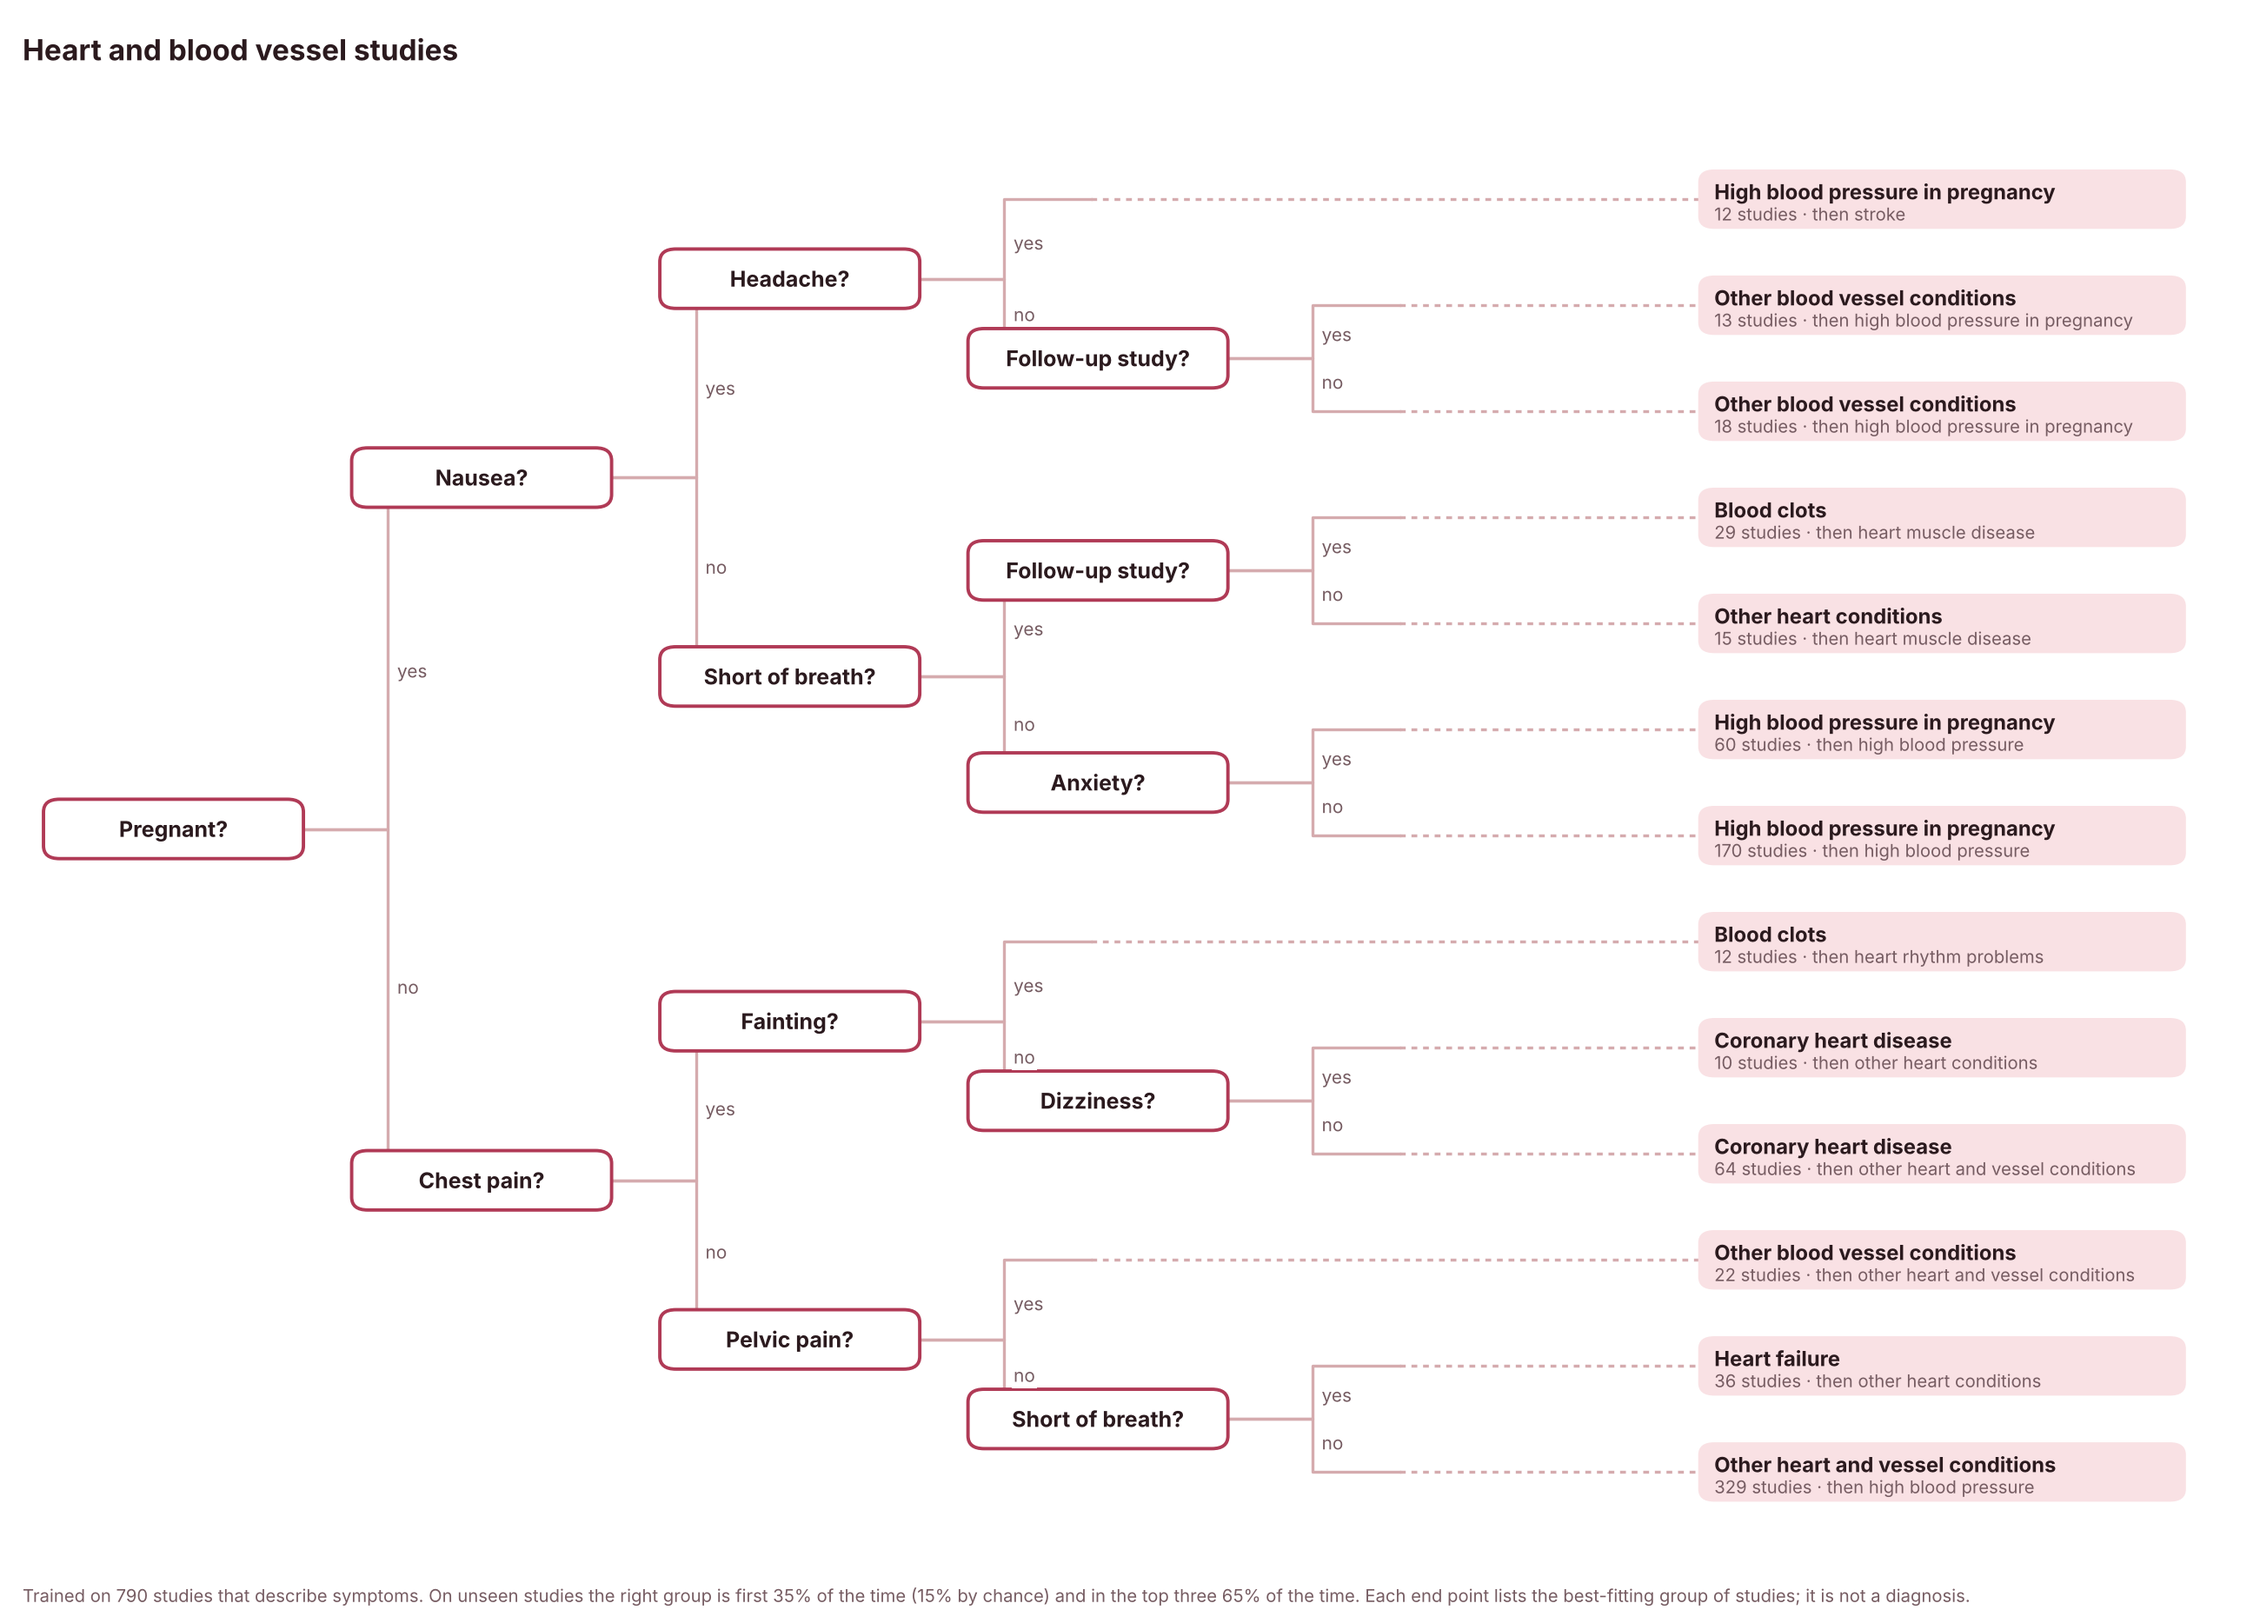
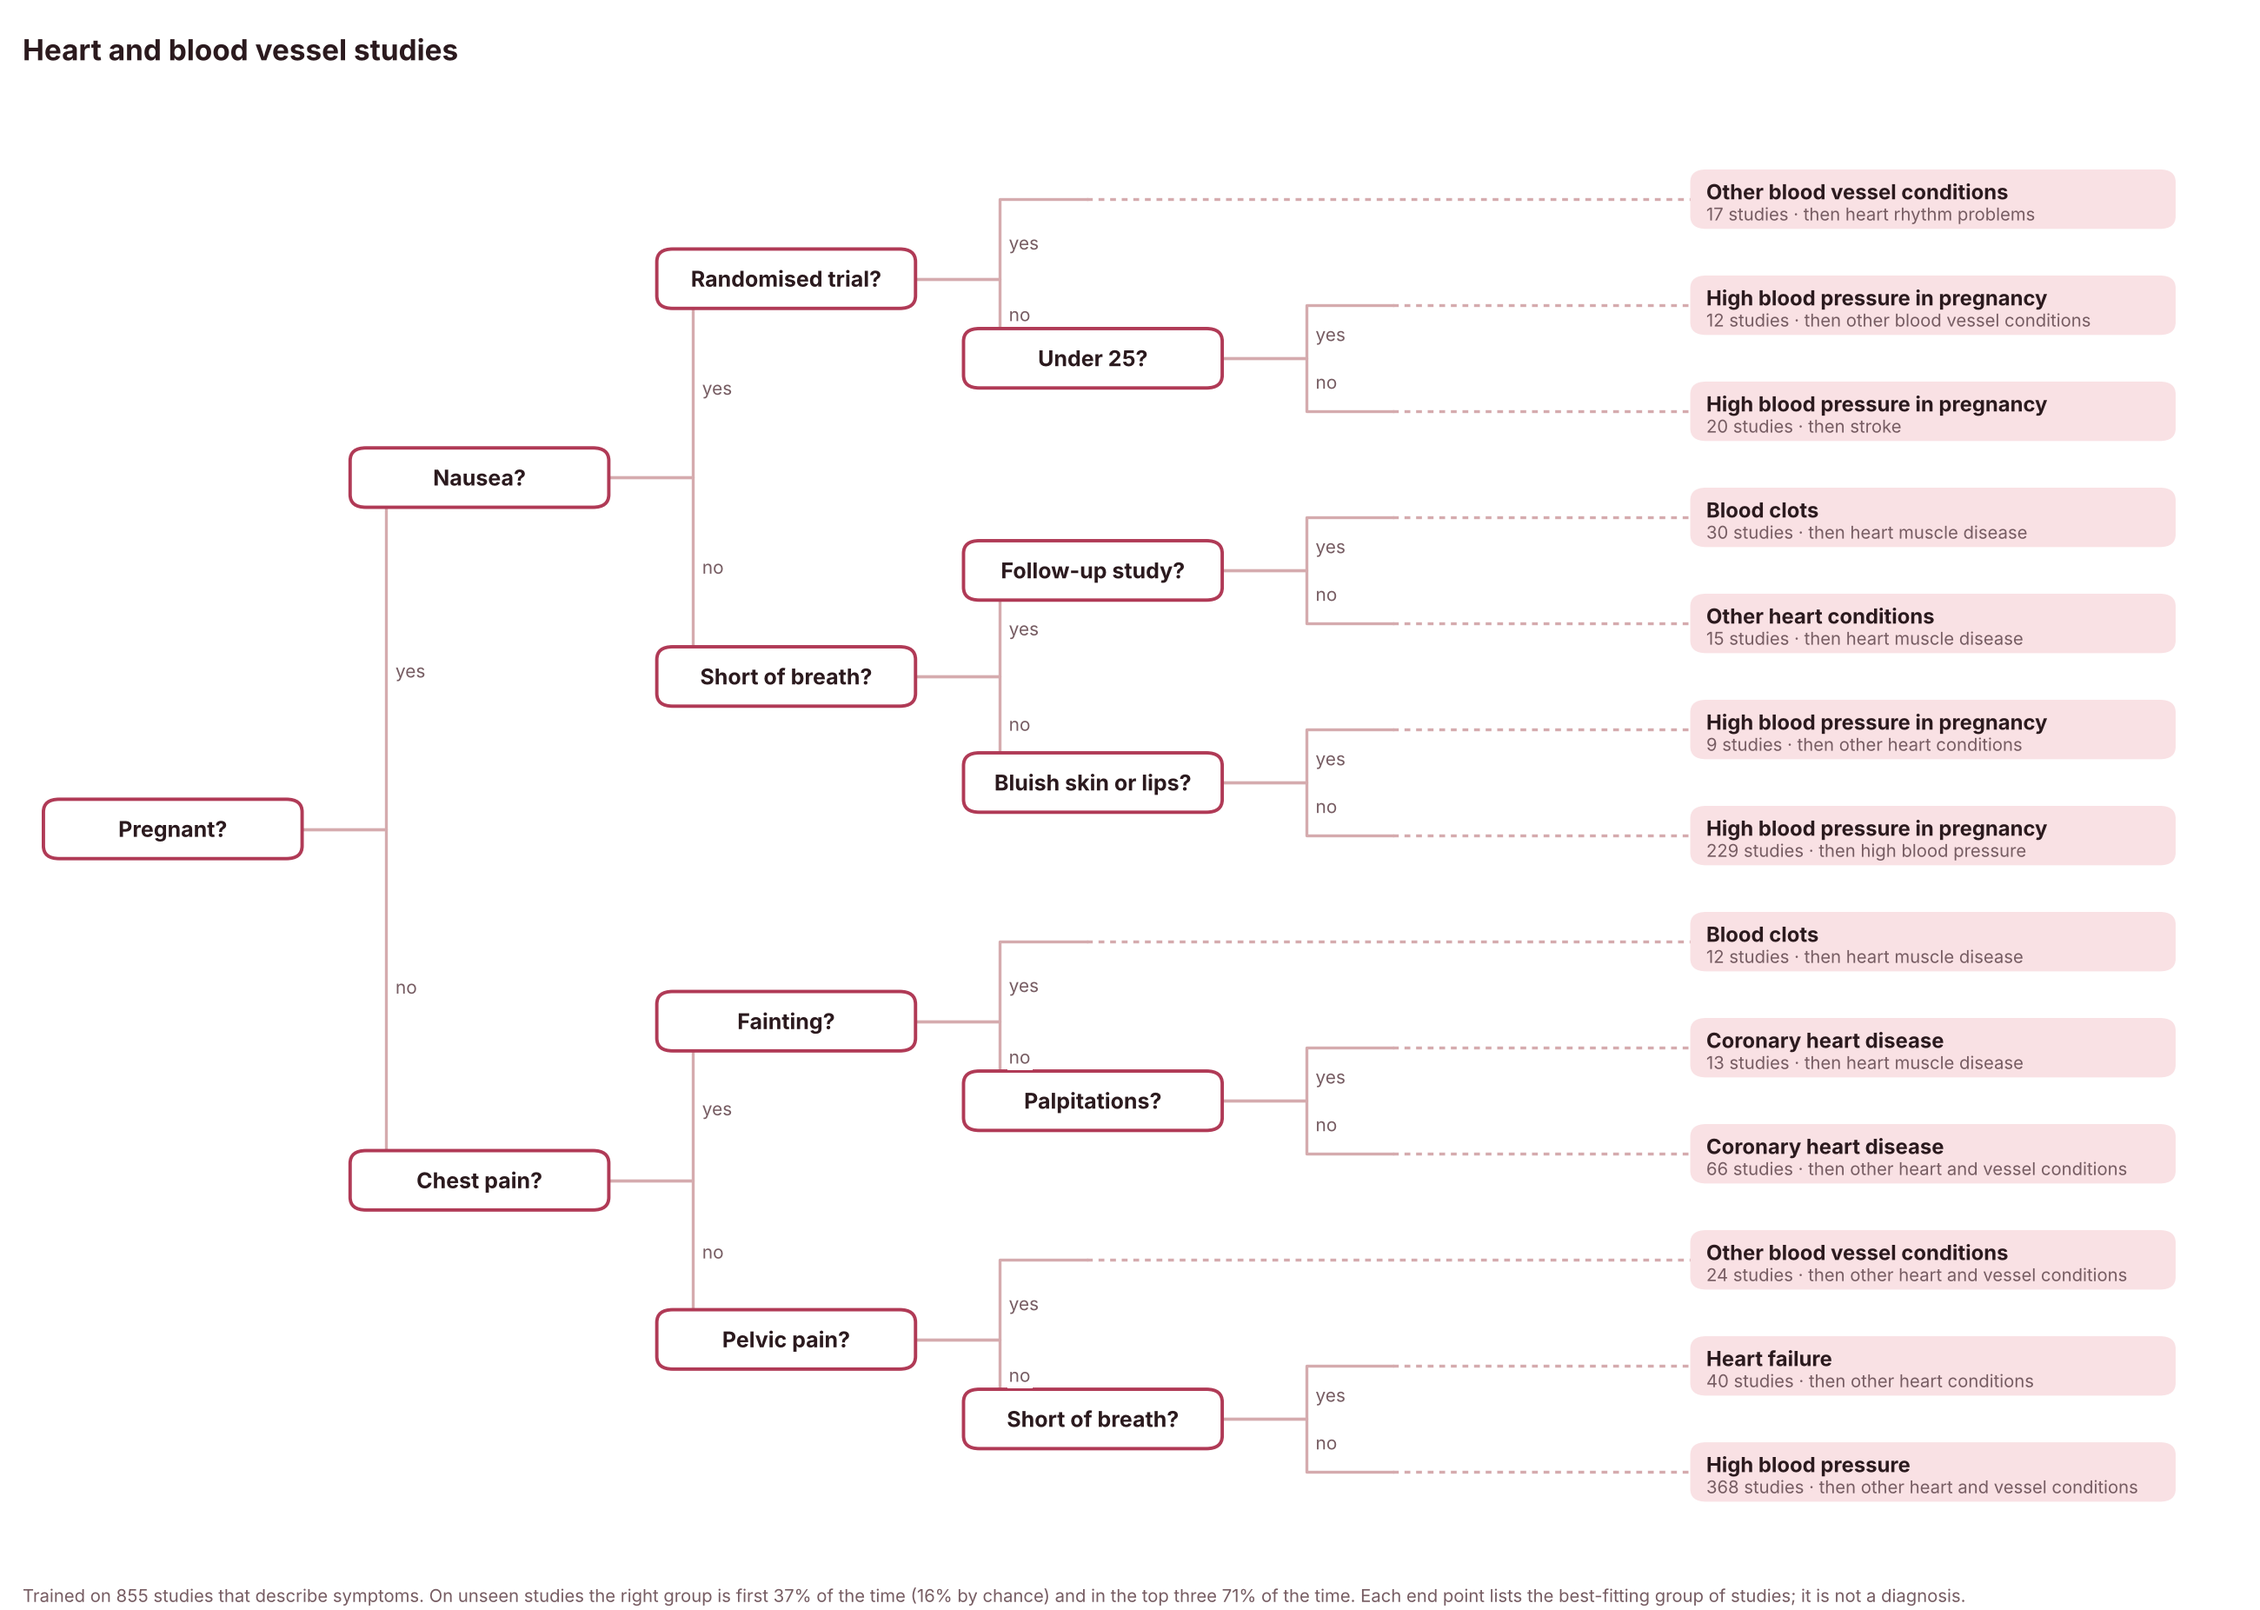
Heart tree figure: 855 studies, plain words for all questions
Claude-Session: https://claude.ai/code/session_011g5dBXYo31XSDjR2vMtEod

diff --git a/eval/figures/tree_plot.py b/eval/figures/tree_plot.py
@@ -11,7 +11,7 @@ ROSE, ROSE_SOFT, INK, MUTED, LINE = "#B03A56", "#F9E1E4", "#2B1A1E", "#765C62", 
 Q = {"Pregnancy": "Pregnant?", "Postpartum": "After giving birth?", "Menopause": "Around menopause?",
      "Age: adolescent or young adult": "Under 25?", "Age: middle-aged": "Aged 45 to 64?", "Age: 65 or older": "65 or older?",
      "Design: randomised trial": "Randomised trial?", "Design: cohort or observational": "Follow-up study?",
-     "Design: cross-sectional": "Survey study?", "Dyspnea": "Short of breath?", "Edema": "Swelling?",
+     "Design: cross-sectional": "Survey study?", "Dyspnea": "Short of breath?", "Edema": "Swelling?", "Nausea": "Feeling sick?", "Cyanosis": "Bluish skin or lips?", "Palpitations": "Racing heart?", "Syncope": "Fainting?",
      "Fatigue": "Tiredness?", "Chest Pain": "Chest pain?", "Sleep Wake Disorders": "Sleep problems?",
      "Syncope": "Fainting?", "Dizziness": "Dizziness?", "Palpitations": "Palpitations?", "Headache": "Headache?",
      "Nausea": "Nausea?", "Pelvic Pain": "Pelvic pain?", "Anxiety": "Anxiety?", "Abdominal Pain": "Tummy pain?",
